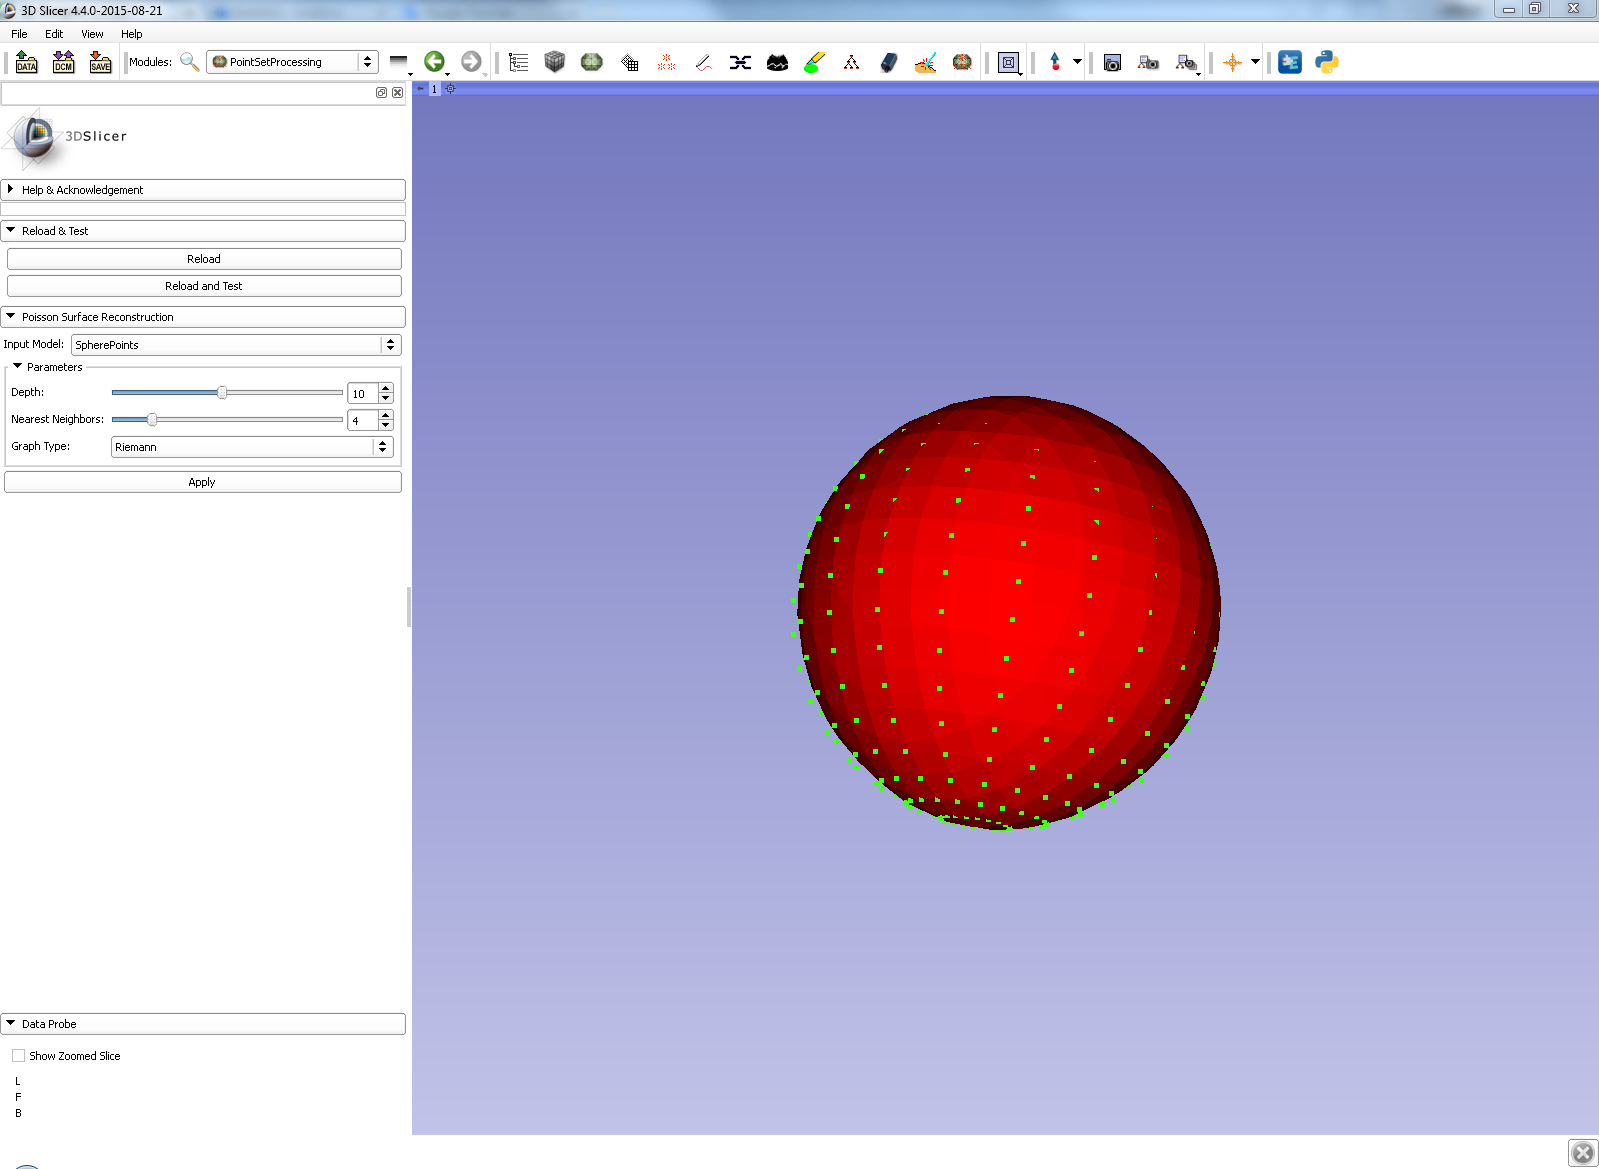
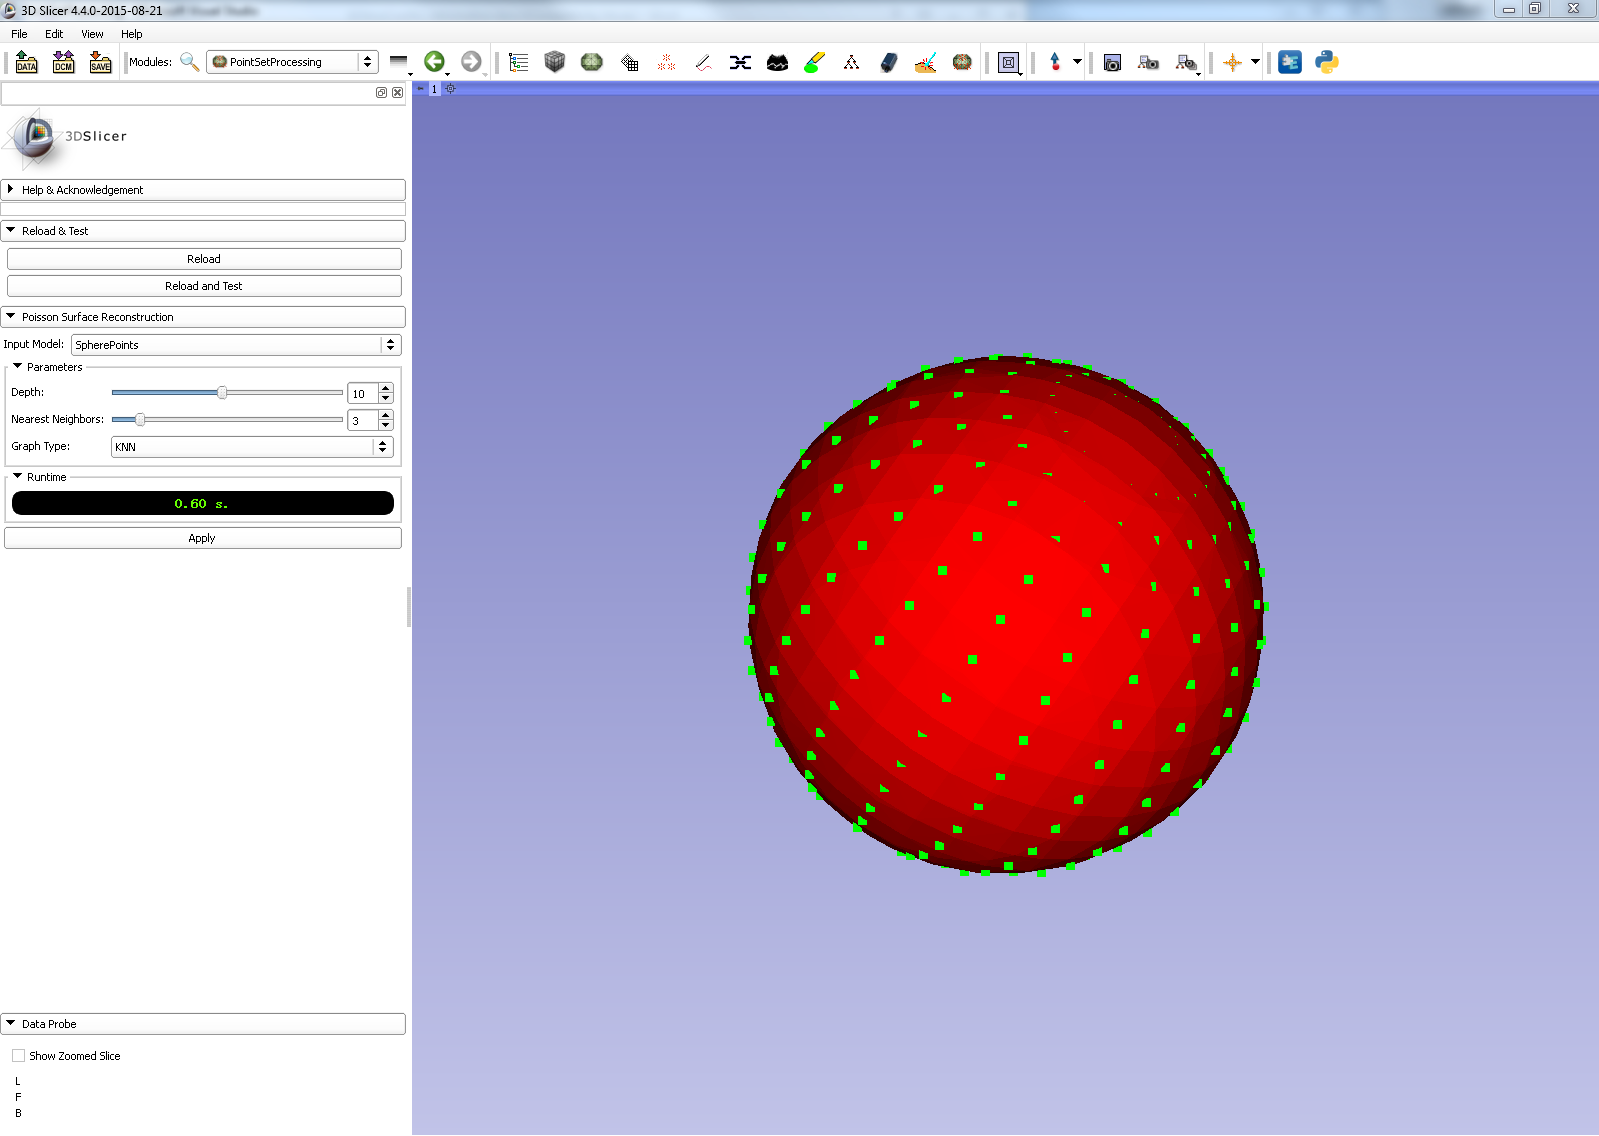
ENH: Added runtime output.

diff --git a/PointSetProcessing/PointSetProcessingPy/PointSetProcessingPy.py b/PointSetProcessing/PointSetProcessingPy/PointSetProcessingPy.py
@@ -64,6 +64,27 @@ class PointSetProcessingPyWidget(ScriptedLoadableModuleWidget):
     self.graphTypeComboBox.addItem('Riemann')        
     parametersOutputFormLayout.addRow('Graph Type: ', self.graphTypeComboBox)
     
+        # Runtime
+    self.runtimeGroupBox = ctk.ctkCollapsibleGroupBox()
+    self.runtimeGroupBox.setTitle("Runtime")
+    runtimeFormLayout = qt.QFormLayout(self.runtimeGroupBox)
+    poissonFormLayout.addRow(self.runtimeGroupBox)
+    
+    self.runtimeLabel = qt.QLabel()
+    self.runtimeLabel.setText("... s.")
+    self.runtimeLabel.setWordWrap(True)
+    self.runtimeLabel.setStyleSheet("QLabel { background-color : black; \
+                                           color : #66FF00; \
+                                           height : 60px; \
+                                           border-style: outset; \
+                                           border-width: 5px; \
+                                           border-radius: 10px; \
+                                           font: bold 14px; \
+                                           padding: 0px;\
+                                           font-family : SimSun; \
+                                           qproperty-alignment: AlignCenter}")
+    runtimeFormLayout.addRow(self.runtimeLabel)
+    
     self.applyButton = qt.QPushButton("Apply")
     self.applyButton.toolTip = "Run the algorithm."
     self.applyButton.enabled = False
@@ -86,12 +107,12 @@ class PointSetProcessingPyWidget(ScriptedLoadableModuleWidget):
   def onApplyButton(self):
     if self.applyButton.checked:
       logic = PointSetProcessingPyLogic()
-      logic.apply(self.inputSelector.currentNode(), self.knnSlider.value, self.depthSlider.value, self.graphTypeComboBox.currentText)
+      logic.apply(self.inputSelector.currentNode(), self.knnSlider.value, self.depthSlider.value, self.graphTypeComboBox.currentText, self.runtimeLabel)
       self.applyButton.checked = False   
 
 class PointSetProcessingPyLogic(ScriptedLoadableModuleLogic):
 
-  def apply(self, inputModelNode, kNearestNeighbors, depth, graphTypeText):
+  def apply(self, inputModelNode, kNearestNeighbors, depth, graphTypeText, runtimeLabel = None):
     outputModelNode = slicer.util.getNode('PointSetProcessingOutput')
     if not outputModelNode:
       scene = slicer.mrmlScene
@@ -108,4 +129,6 @@ class PointSetProcessingPyLogic(ScriptedLoadableModuleLogic):
       graphType = 0
     elif graphTypeText == 'KNN':
       graphType = 1
-    slicer.modules.pointsetprocessingcpp.logic().PointSetProcessingConnector(inputModelNode, outputModelNode, int(kNearestNeighbors), int(depth), graphType)
+    runtime = slicer.modules.pointsetprocessingcpp.logic().PointSetProcessingConnector(inputModelNode, outputModelNode, int(kNearestNeighbors), int(depth), graphType)
+    if runtimeLabel:
+      runtimeLabel.setText('%.2f' % runtime + ' s.')

diff --git a/PointSetProcessing/PointSetProcessingCpp/Logic/vtkSlicerPointSetProcessingCppLogic.h b/PointSetProcessing/PointSetProcessingCpp/Logic/vtkSlicerPointSetProcessingCppLogic.h
@@ -46,7 +46,7 @@ public:
   vtkTypeMacro(vtkSlicerPointSetProcessingCppLogic, vtkSlicerModuleLogic);
   void PrintSelf(ostream& os, vtkIndent indent);
 
-  void PointSetProcessingConnector(vtkMRMLModelNode* input, vtkMRMLModelNode* output, int kNearestNeighbors, int depth, unsigned int graphType);
+  float PointSetProcessingConnector(vtkMRMLModelNode* input, vtkMRMLModelNode* output, int kNearestNeighbors, int depth, unsigned int graphType);
 
 protected:
   vtkSlicerPointSetProcessingCppLogic();
